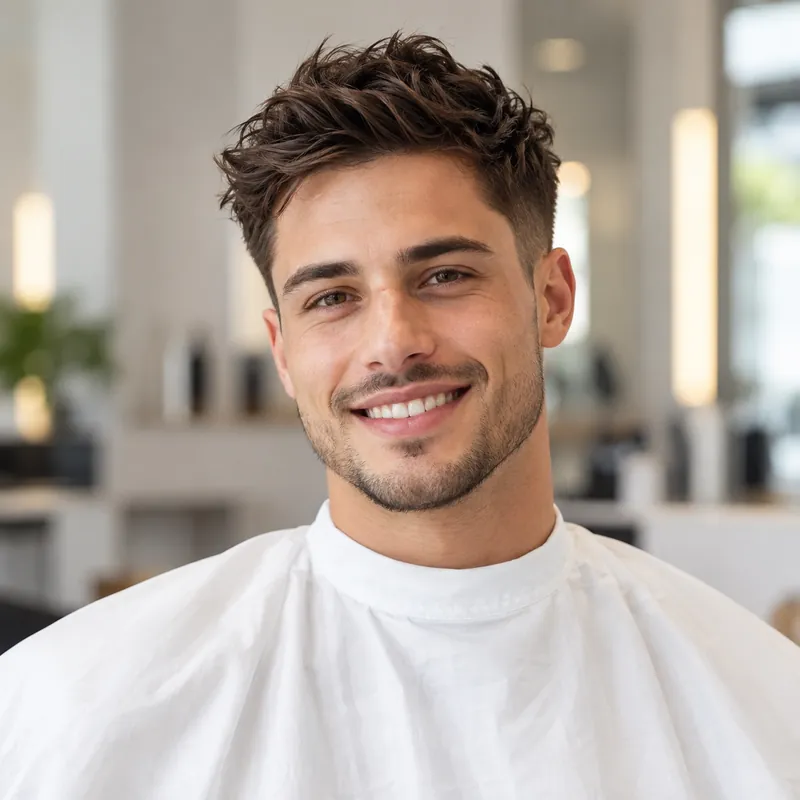
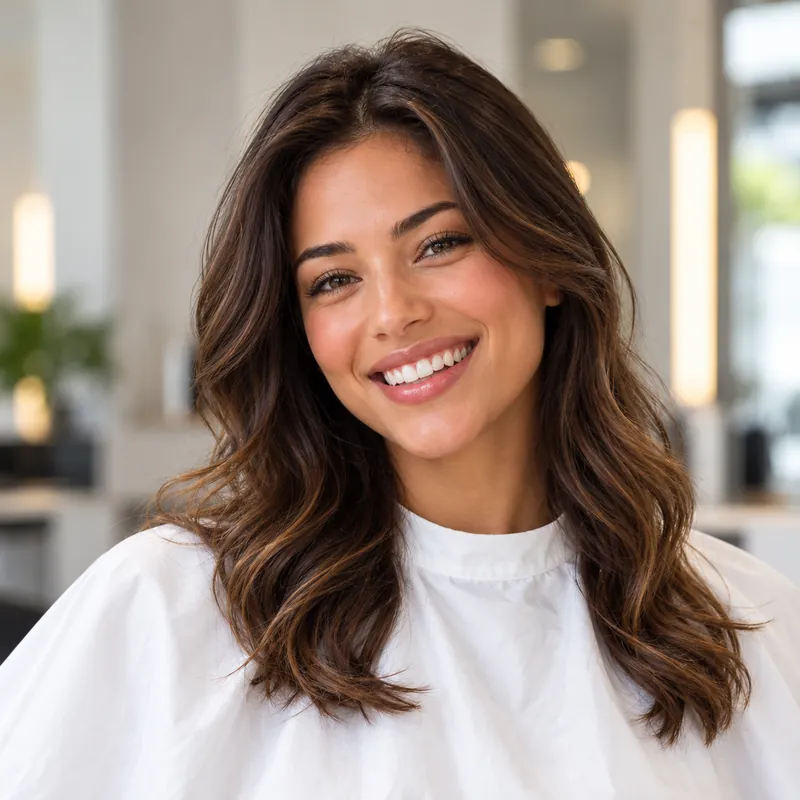
feat(onboarding): add male variant images for rewards in onboarding

diff --git a/src/app/onboarding.tsx b/src/app/onboarding.tsx
@@ -75,11 +75,11 @@ const DIETS: { t: string; img: number; hero: number; diet: string }[] = [
   { t: 'Vegan', img: IMG.dietVegan, hero: IMG.dietHeroVegan, diet: 'Vegan' },
   { t: 'Other', img: IMG.dietOther, hero: IMG.dietHeroOther, diet: '' },
 ];
-const REWARDS: { t: string; img: number }[] = [
-  { t: 'Treat myself to a nice meal', img: IMG.rewardMeal },
-  { t: 'Buy new gym clothes', img: IMG.rewardClothes },
-  { t: 'Take a trip somewhere', img: IMG.rewardTrip },
-  { t: 'Get a makeover', img: IMG.rewardMakeover },
+const REWARDS: { t: string; img: number; imgMale: number }[] = [
+  { t: 'Treat myself to a nice meal', img: IMG.rewardMeal, imgMale: IMG.rewardMealMale },
+  { t: 'Buy new gym clothes', img: IMG.rewardClothes, imgMale: IMG.rewardClothesMale },
+  { t: 'Take a trip somewhere', img: IMG.rewardTrip, imgMale: IMG.rewardTripMale },
+  { t: 'Get a makeover', img: IMG.rewardMakeover, imgMale: IMG.rewardMakeoverMale },
 ];
 /** Goal pace, kg per week, Easy → Master. */
 const PACES: { v: number; icon: IconName; note: string }[] = [
@@ -600,7 +600,7 @@ export default function Onboarding() {
             <View style={st.rewardGrid}>
               {REWARDS.map((r, i) => (
                 <Rise key={r.t} i={i + 1} style={st.rewardCell}>
-                  <RewardCard label={r.t} img={r.img} on={p.rewards.includes(r.t)} onPress={() => set((x) => ({ rewards: toggleIn(x.rewards, r.t) }))} />
+                  <RewardCard label={r.t} img={p.gender === 'male' ? r.imgMale : r.img} on={p.rewards.includes(r.t)} onPress={() => set((x) => ({ rewards: toggleIn(x.rewards, r.t) }))} />
                 </Rise>
               ))}
             </View>

diff --git a/src/components/onboarding/assets.ts b/src/components/onboarding/assets.ts
@@ -21,9 +21,13 @@ export const IMG = {
   dietHeroOther: require('@/assets/images/onboarding/diet-hero-other.webp'),
   activity: require('@/assets/images/onboarding/activity.webp'),
   rewardMeal: require('@/assets/images/onboarding/reward-meal.webp'),
+  rewardMealMale: require('@/assets/images/onboarding/reward-meal-m.webp'),
   rewardClothes: require('@/assets/images/onboarding/reward-clothes.webp'),
+  rewardClothesMale: require('@/assets/images/onboarding/reward-clothes-m.webp'),
   rewardTrip: require('@/assets/images/onboarding/reward-trip.webp'),
+  rewardTripMale: require('@/assets/images/onboarding/reward-trip-m.webp'),
   rewardMakeover: require('@/assets/images/onboarding/reward-makeover.webp'),
+  rewardMakeoverMale: require('@/assets/images/onboarding/reward-makeover-m.webp'),
   testimonial: require('@/assets/images/onboarding/testimonial.webp'),
   motivation: require('@/assets/images/onboarding/motivation.webp'),
   motivationMale: require('@/assets/images/onboarding/motivation-m.webp'),
